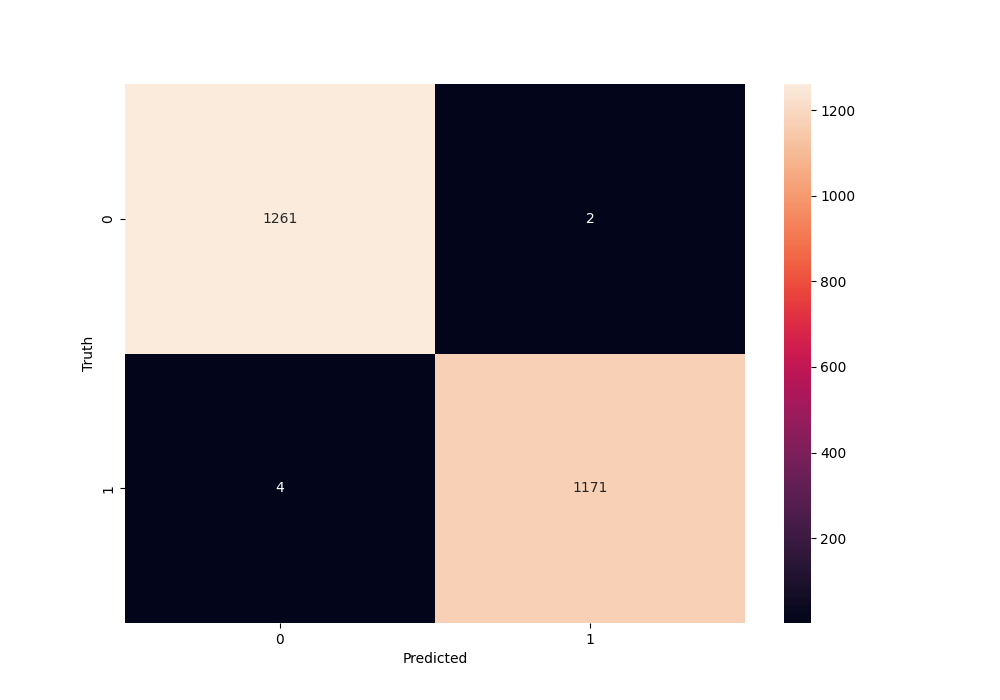
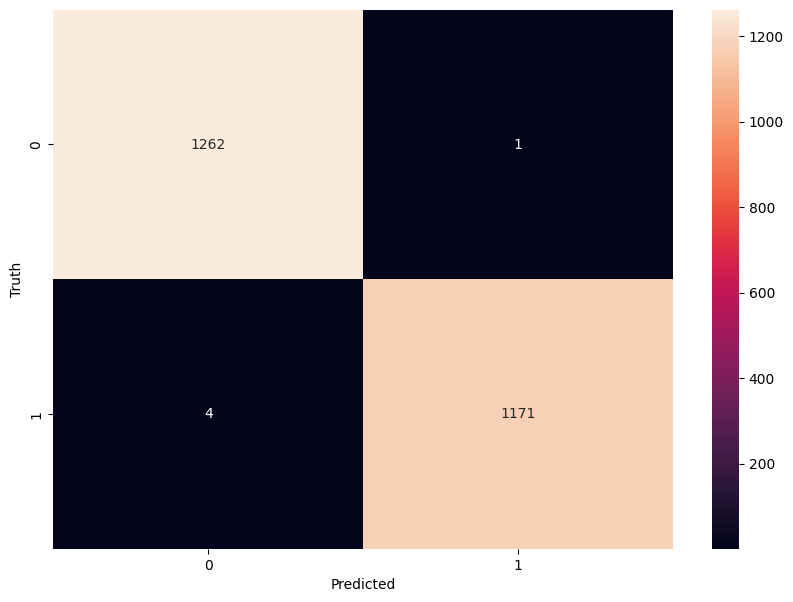
Small edits to 'Build Your Own NN' section

diff --git a/docs/section3/Build_Your_Own_NN.rst b/docs/section3/Build_Your_Own_NN.rst
@@ -25,7 +25,11 @@ First, we will import the Mushroom dataset using the ``ucimlrepo`` package:
 .. code-block:: python3
 
     import pandas as pd
+    import random
     from ucimlrepo import fetch_ucirepo 
+
+    # Set seed for reproducibility
+    random.seed(123)
 
     # fetch dataset 
     mushroom = fetch_ucirepo(id=73) 
@@ -325,8 +329,12 @@ This architecture provides a good starting point for understanding how neural ne
 .. code-block:: python3
 
     # Import necessary libraries from Keras
+    import tensorflow as tf
     from tensorflow.keras import Sequential
     from tensorflow.keras.layers import Input, Dense
+
+    # Set random seed for reproducibility
+    tf.random.set_seed(123) 
 
     # Create model with sequential API
     model = Sequential([
@@ -380,11 +388,7 @@ This architecture provides a good starting point for understanding how neural ne
 
 **Training the Neural Network**
 
-With our model built and compiled, we can now train it on our data:
-
-.. code-block:: python3
-
-    model.fit(X_train, y_train, validation_split=0.2, epochs=5, batch_size=32, verbose=2)
+With our model built and compiled, we can now train it on our data. Before executing the training code, let's understand the key parameters we'll use:
 
 .. list-table:: Key Training Parameters
    :widths: 20 80
@@ -423,38 +427,46 @@ With our model built and compiled, we can now train it on our data:
       
       The batch size of 32 in our example is relatively small, which is good for learning complex patterns in modest-sized datasets.
 
+Now let's train our model with these parameters:
+
+.. code-block:: python3
+
+    # Train the model with the specified parameters
+    model.fit(X_train, y_train, validation_split=0.2, epochs=5, batch_size=32, verbose=2)
+
 Below shows the output of the training process:
 
 .. code-block:: python-console
 
     Epoch 1/5
-    143/143 - 0s - 2ms/step - accuracy: 0.8828 - loss: 0.4267 - val_accuracy: 0.9552 - val_loss: 0.2148
+    143/143 - 0s - 3ms/step - accuracy: 0.8709 - loss: 0.3543 - val_accuracy: 0.9569 - val_loss: 0.1458
     Epoch 2/5
-    143/143 - 0s - 514us/step - accuracy: 0.9732 - loss: 0.1418 - val_accuracy: 0.9798 - val_loss: 0.0906
+    143/143 - 0s - 969us/step - accuracy: 0.9776 - loss: 0.0964 - val_accuracy: 0.9851 - val_loss: 0.0638
     Epoch 3/5
-    143/143 - 0s - 519us/step - accuracy: 0.9857 - loss: 0.0648 - val_accuracy: 0.9903 - val_loss: 0.0477
+    143/143 - 0s - 723us/step - accuracy: 0.9894 - loss: 0.0481 - val_accuracy: 0.9938 - val_loss: 0.0364
     Epoch 4/5
-    143/143 - 0s - 508us/step - accuracy: 0.9930 - loss: 0.0369 - val_accuracy: 0.9965 - val_loss: 0.0289
+    143/143 - 0s - 739us/step - accuracy: 0.9949 - loss: 0.0288 - val_accuracy: 0.9982 - val_loss: 0.0230
     Epoch 5/5
-    143/143 - 0s - 509us/step - accuracy: 0.9978 - loss: 0.0232 - val_accuracy: 0.9982 - val_loss: 0.0194
+    143/143 - 0s - 738us/step - accuracy: 0.9985 - loss: 0.0186 - val_accuracy: 0.9982 - val_loss: 0.0157
 
+Let's understand what this output tells us:
 
 1. **Progress metrics**:
   - ``143/143``: Shows progress through the training batches; 143 batches were completed out of 143, and each batch contains 32 samples (as specified by ``batch_size=32``)
   - ``0s``: Indicates the time taken for each epoch; here, the first epoch took <1 second to complete.
-  - ``2ms/step``: This indicates the average time taken per training step (one forward and backward pass through a single batch) during training.
+  - ``3ms/step``: This indicates the average time taken per training step (one forward and backward pass through a single batch) during training.
 
 2. **Training metrics**:
-  - ``accuracy: 0.8828``: Represents the accuracy of the model on the training dataset. The accuracy value of approximately 0.8828 indicates that the model correctly predicted 88.28% of the training samples.
-  - ``loss: 0.4267``: Represents the training loss value (using binary cross-entropy loss function) on the training dataset. Higher loss values indicate that the model's predictions are further from the true labels.
+  - ``accuracy: 0.8709``: Represents the accuracy of the model on the training dataset. The accuracy value of approximately 0.8709 indicates that the model correctly predicted 87.09% of the training samples.
+  - ``loss: 0.3543``: Represents the training loss value (using binary cross-entropy loss function) on the training dataset. Higher loss values indicate that the model's predictions are further from the true labels.
 
 3. **Validation metrics**:
-  - ``val_accuracy: 0.9552``: Represents the accuracy of the model on the validation dataset. The accuracy value of approximately 0.9552 indicates that the model correctly predicted 95.52% of the validation samples.
-  - ``val_loss: 0.2148``: Represents the validation loss value (using binary cross-entropy loss function) on the validation dataset. Lower loss values indicate that the model's predictions are closer to the true labels.
+  - ``val_accuracy: 0.9569``: Represents the accuracy of the model on the validation dataset. The accuracy value of approximately 0.9569 indicates that the model correctly predicted 95.69% of the validation samples.
+  - ``val_loss: 0.1458``: Represents the validation loss value (using binary cross-entropy loss function) on the validation dataset. Lower loss values indicate that the model's predictions are closer to the true labels.
 
 Looking at our training results after 5 epochs, we can observe:
 
-1. The model achieved excellent performance, with final training accuracy of 99.78% and validation accuracy of 99.82%.
+1. The model achieved excellent performance, with final training accuracy of 99.85% and validation accuracy of 99.82%.
 2. Both training and validation loss steadily decreased across epochs, indicating consistent learning.
 3. Validation metrics consistently tracked close to training metrics, suggesting the model generalizes well rather than memorizing the training data.
 
@@ -469,17 +481,17 @@ Let's visualize our training progress before moving on:
     
     # Plot training & validation accuracy
     plt.subplot(1, 2, 1)
-    plt.plot([0.8828, 0.9732, 0.9857, 0.9930, 0.9978], label='Training Accuracy')
-    plt.plot([0.9552, 0.9798, 0.9903, 0.9965, 0.9982], label='Validation Accuracy')
+    plt.plot([0.8709, 0.9776, 0.9894, 0.9949, 0.9985], label='Training Accuracy')
+    plt.plot([0.9569, 0.9851, 0.9938, 0.9982, 0.9982], label='Validation Accuracy')
     plt.title('Model Accuracy')
     plt.ylabel('Accuracy')
     plt.xlabel('Epoch')
     plt.legend()
-    
+
     # Plot training & validation loss
     plt.subplot(1, 2, 2)
-    plt.plot([0.4267, 0.1418, 0.0648, 0.0369, 0.0232], label='Training Loss')
-    plt.plot([0.2148, 0.0906, 0.0477, 0.0289, 0.0194], label='Validation Loss')
+    plt.plot([0.3543, 0.0964, 0.0481, 0.0288, 0.0186], label='Training Loss')
+    plt.plot([0.1458, 0.0638, 0.0364, 0.0230, 0.0157], label='Validation Loss')
     plt.title('Model Loss')
     plt.ylabel('Loss')
     plt.xlabel('Epoch')
@@ -506,23 +518,22 @@ The true test of our model's capabilities comes from evaluating it on our comple
     # Make predictions on the test data
     y_pred=model.predict(X_test)
 
-For a binary classification problem like our (poisonous vs edible), the model outputs probabilities between 0 and 1 for each sample:
+For a binary classification problem like our (poisonous vs edible), the model outputs probabilities between 0 and 1 for each sample. Let's show the first sample's prediction:
 
 .. code-block:: python3
 
-    # Show the first sample's prediction
     y_pred[0]
 
 .. code-block:: python-console
     
-    array([0.00026373], Dtype=float32)
+    array([0.00309971], dtype=float32)
 
 This shows the probability for the first mushroom sample in the test set.
 The output is a single value between 0 and 1, where:
  - Values closer to 1 indicate the model is more confident that the sample is poisonous.
  - Values closer to 0 indicate the model is more confident that the sample is edible.
 
-For example, our output value is 0.00026, which means that the model is 99.99% confident that the sample is edible.
+For example, our output value is 0.00309971, which means that the model is 99.9969% confident that the sample is edible.
 
 The model outputs probability values, but for practical mushroom classification, we need definitive "edible" or "poisonous" predictions. We need to convert these continuous probability values into discrete class labels:
 
@@ -624,27 +635,28 @@ From these confusion matrix values, we can calculate several important evaluatio
     **Recall** measures a model's ability to correctly identify all true positives within a dataset, minimizing false negatives. 
     Therefore, **recall** is the most important metric for this model.
 
-Let's also print the accuracy of this model using code below
+Let's also print the full classification report of this model using code below
 
 .. code-block:: python3
 
     from sklearn.metrics import classification_report
+
     print(classification_report(y_test,y_pred_final, digits=4))
 
 .. code-block:: python-console
 
                precision    recall  f1-score   support
 
-            0     0.9968    0.9984    0.9976      1263
-            1     0.9983    0.9966    0.9974      1175
+            0     0.9968    0.9992    0.9980      1263
+            1     0.9991    0.9966    0.9979      1175
 
-     accuracy                         0.9975      2438
-    macro avg     0.9976    0.9975    0.9975      2438
- weighted avg     0.9975    0.9975    0.9975      2438
+     accuracy                         0.9979      2438
+    macro avg     0.9980    0.9979    0.9979      2438
+ weighted avg     0.9980    0.9979    0.9979      2438
 
 
-The accuracy of our model is 99.75%.
-99.75% of the time, this model predicted the correct label on the test data.
+The accuracy of our model is 99.79%.
+99.79% of the time, this model predicted the correct label on the test data.
 
 **Thought Challenge**: Did we build a successful model? Why or why not? Is there anything we can do to improve the model?
 
@@ -654,10 +666,10 @@ The accuracy of our model is 99.75%.
     
     Yes, by standard performance metrics, our model is remarkably successful:
     
-    * Accuracy of 99.75% on the test set
+    * Accuracy of 99.79% on the test set
     * Recall of 99.66% for poisonous mushrooms
-    * Precision of 99.83% for poisonous predictions
-    * F1-score of 99.74%
+    * Precision of 99.91% for poisonous predictions
+    * F1-score of 99.79%
     
     **Why it's successful:**
     
